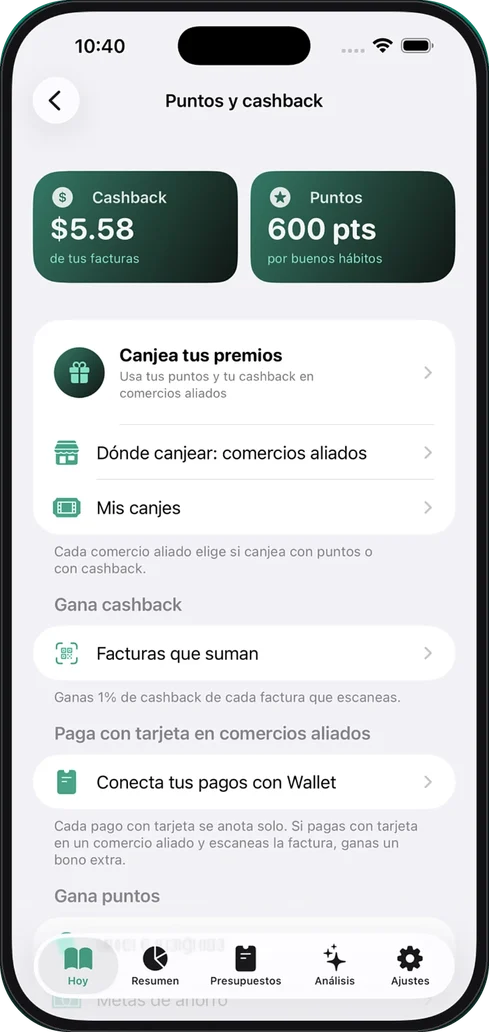
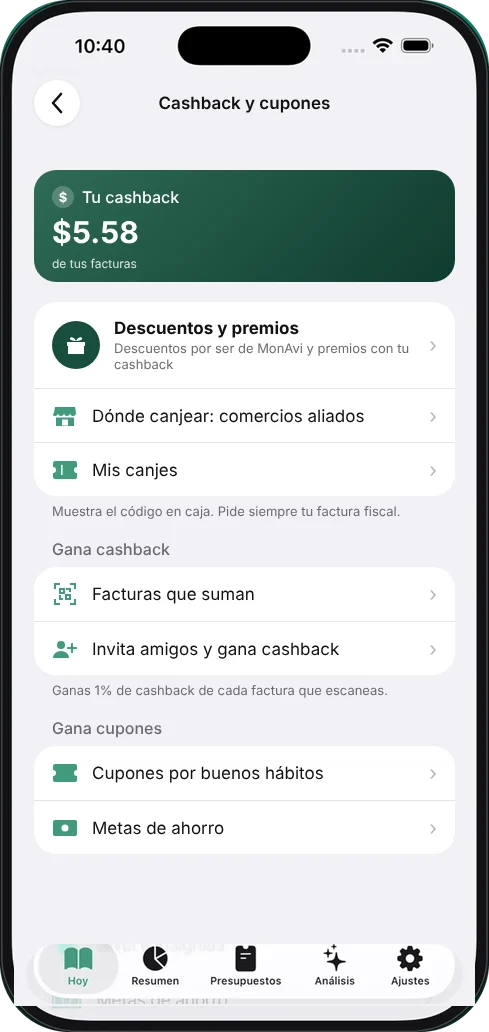
Landing de aliados sin puntos (premio con cashback o descuento por ser de MonAvi) y sin 'Gratis' en los descuentos
Claude-Session: https://claude.ai/code/session_01CAyuypny9sFhLWBW5RdW9C

diff --git a/admin/app/aliados/BusinessPreview.tsx b/admin/app/aliados/BusinessPreview.tsx
@@ -4,18 +4,26 @@ import { useMemo, useState } from "react";
 import { AnimatePresence, motion } from "framer-motion";
 
 // Simulador: el comercio escribe su nombre y su producto y ve, en vivo,
-// como aparece dentro de MonAvi (ficha en "Donde canjear" y el canje con
-// codigo que el cliente muestra en caja). Imita el diseno real de la app.
+// como aparece dentro de MonAvi (ficha en "Donde canjear" y el codigo que
+// el cliente muestra en caja). Imita el diseno real de la app.
+//
+// Dos formas de estar en MonAvi: un premio que el cliente canjea con su
+// cashback, o un descuento por ser de MonAvi (ej. 20%, 1 vez por semana).
 
-type Currency = "cashback" | "puntos";
+type Offer = "premio" | "descuento";
 
 const PRESETS = [
-  { emoji: "☕", category: "Cafetería", product: "Capuchino mediano", value: "3.50", currency: "cashback" as Currency },
-  { emoji: "🥐", category: "Panadería", product: "Croissant de mantequilla", value: "2.25", currency: "cashback" as Currency },
-  { emoji: "💈", category: "Barbería", product: "Perfilado de barba", value: "600", currency: "puntos" as Currency },
-  { emoji: "🍦", category: "Heladería", product: "Helado de una bola", value: "2.50", currency: "cashback" as Currency },
-  { emoji: "🏋", category: "Gimnasio", product: "Pase de un día", value: "800", currency: "puntos" as Currency },
+  { emoji: "☕", category: "Cafetería", product: "Capuchino mediano", value: "3.50", offer: "premio" as Offer },
+  { emoji: "🥐", category: "Panadería", product: "En toda la panadería", value: "15", offer: "descuento" as Offer },
+  { emoji: "💈", category: "Barbería", product: "En cortes de cabello", value: "20", offer: "descuento" as Offer },
+  { emoji: "🍦", category: "Heladería", product: "Helado de una bola", value: "2.50", offer: "premio" as Offer },
+  { emoji: "🏋", category: "Gimnasio", product: "En la mensualidad", value: "10", offer: "descuento" as Offer },
 ];
+
+const DEFAULTS: Record<Offer, { product: string; value: string }> = {
+  premio: { product: "Capuchino mediano", value: "3.50" },
+  descuento: { product: "En toda la tienda", value: "20" },
+};
 
 function initials(name: string): string {
   const words = name.trim().split(/\s+/).filter(Boolean);
@@ -62,16 +70,17 @@ export default function BusinessPreview() {
   const preset = PRESETS[presetIndex];
   const [product, setProduct] = useState(preset.product);
   const [value, setValue] = useState(preset.value);
-  const [currency, setCurrency] = useState<Currency>(preset.currency);
+  const [offer, setOffer] = useState<Offer>(preset.offer);
   const [screen, setScreen] = useState<"ficha" | "canje">("ficha");
 
   const shownName = name.trim() || "Tu negocio";
   const shownProduct = product.trim() || "Tu producto";
   const numeric = Number(value.replace(",", "."));
-  const priceLabel =
-    currency === "cashback"
-      ? `$${Number.isFinite(numeric) && numeric > 0 ? numeric.toFixed(2) : "0.00"}`
-      : `${Number.isFinite(numeric) && numeric > 0 ? Math.round(numeric).toLocaleString("es-PA") : "0"} pts`;
+  const isDiscount = offer === "descuento";
+  const percent = Number.isFinite(numeric) && numeric > 0 ? Math.min(100, Math.round(numeric)) : 0;
+  const priceLabel = `$${Number.isFinite(numeric) && numeric > 0 ? numeric.toFixed(2) : "0.00"}`;
+  const dealTitle = `${percent}% de descuento`;
+  const itemTitle = isDiscount ? dealTitle : shownProduct;
   const code = useMemo(() => makeCode(shownName + shownProduct), [shownName, shownProduct]);
 
   function pickPreset(index: number) {
@@ -79,7 +88,14 @@ export default function BusinessPreview() {
     setPresetIndex(index);
     setProduct(p.product);
     setValue(p.value);
-    setCurrency(p.currency);
+    setOffer(p.offer);
+  }
+
+  function pickOffer(next: Offer) {
+    if (next === offer) return;
+    setOffer(next);
+    setProduct(DEFAULTS[next].product);
+    setValue(DEFAULTS[next].value);
   }
 
   return (
@@ -113,24 +129,24 @@ export default function BusinessPreview() {
         </div>
 
         <label className="al-field">
-          <span>Producto que regalas</span>
+          <span>{isDiscount ? "En qué aplica" : "Producto que regalas"}</span>
           <input type="text" value={product} maxLength={40} onChange={(e) => setProduct(e.target.value)} />
         </label>
 
         <div className="al-row2">
           <div className="al-field">
-            <span>Se canjea con</span>
+            <span>Qué ofreces</span>
             <div className="al-seg">
-              <button type="button" className={currency === "cashback" ? "on" : ""} onClick={() => { setCurrency("cashback"); setValue("3.50"); }}>
-                Cashback
+              <button type="button" className={offer === "premio" ? "on" : ""} onClick={() => pickOffer("premio")}>
+                Premio
               </button>
-              <button type="button" className={currency === "puntos" ? "on" : ""} onClick={() => { setCurrency("puntos"); setValue("600"); }}>
-                Puntos
+              <button type="button" className={offer === "descuento" ? "on" : ""} onClick={() => pickOffer("descuento")}>
+                Descuento
               </button>
             </div>
           </div>
           <label className="al-field">
-            <span>{currency === "cashback" ? "Valor (US$)" : "Puntos"}</span>
+            <span>{isDiscount ? "Descuento (%)" : "Valor en cashback (US$)"}</span>
             <input type="text" inputMode="decimal" value={value} maxLength={8} onChange={(e) => setValue(e.target.value.replace(/[^0-9.,]/g, ""))} />
           </label>
         </div>
@@ -143,7 +159,12 @@ export default function BusinessPreview() {
             El canje en caja
           </button>
         </div>
-        <p className="al-note">Vista previa ilustrativa. Tu ficha real lleva tu logo y la foto de tu producto.</p>
+        <p className="al-note">
+          {isDiscount
+            ? "Descuento por ser de MonAvi: tú decides cada cuánto lo puede usar cada persona (por ejemplo, 1 vez por semana)."
+            : "Premio con cashback: el cliente lo canjea con el cashback que gana con sus facturas."}{" "}
+          Vista previa ilustrativa: tu ficha real lleva tu logo y la foto de tu producto.
+        </p>
       </div>
 
       <div className="al-phone" aria-live="polite">
@@ -159,9 +180,8 @@ export default function BusinessPreview() {
                 transition={{ duration: 0.28 }}
               >
                 <div className="al-app-title">Dónde canjear</div>
-                <div className="al-balances">
-                  <div><small>Cashback</small><b>$5.58</b></div>
-                  <div><small>Puntos</small><b>600 pts</b></div>
+                <div className="al-balances single">
+                  <div><small>Tu cashback</small><b>$5.58</b></div>
                 </div>
                 <motion.div className="al-mcard" layout>
                   <div className="al-mcard-head">
@@ -172,20 +192,22 @@ export default function BusinessPreview() {
                       <b>{shownName}</b>
                       <small>{preset.category}</small>
                       <small>📍 Panamá</small>
-                      <span className="al-tag">{currency === "cashback" ? "Canje con cashback" : "Canje con puntos"}</span>
+                      <span className="al-tag">{isDiscount ? "Descuento por ser de MonAvi" : "Canje con cashback"}</span>
                     </div>
                   </div>
-                  <p className="al-mcard-line">1 premio desde {priceLabel} · ya te alcanza 🎉</p>
+                  <p className="al-mcard-line">
+                    {isDiscount ? `${dealTitle} · 1 vez por semana` : `1 premio desde ${priceLabel} · ya te alcanza 🎉`}
+                  </p>
                   <div className="al-mcard-btns">
                     <span className="ghost">Cómo llegar</span>
-                    <span className="solid" onClick={() => setScreen("canje")}>Ver premios</span>
+                    <span className="solid" onClick={() => setScreen("canje")}>{isDiscount ? "Ver descuentos" : "Ver premios"}</span>
                   </div>
                 </motion.div>
                 <div className="al-reward">
                   <div className="al-reward-photo" aria-hidden="true">{preset.emoji}</div>
                   <div>
-                    <b>{shownProduct}</b>
-                    <span className="al-price">{priceLabel}</span>
+                    <b>{itemTitle}</b>
+                    {isDiscount ? <small className="al-dim">{shownProduct}</small> : <span className="al-price">{priceLabel}</span>}
                   </div>
                 </div>
               </motion.div>
@@ -198,13 +220,13 @@ export default function BusinessPreview() {
                 transition={{ duration: 0.28 }}
                 className="al-redeem"
               >
-                <div className="al-app-title">Tu canje</div>
+                <div className="al-app-title">{isDiscount ? "Tu descuento" : "Tu canje"}</div>
                 <div className="al-redeem-head">
                   <div className="al-reward-photo small" aria-hidden="true">{preset.emoji}</div>
                   <div>
                     <b>{shownName}</b>
-                    <small>{shownProduct}</small>
-                    <span className="al-price">{priceLabel}</span>
+                    <small>{itemTitle}</small>
+                    {isDiscount ? <small>{shownProduct}</small> : <span className="al-price">{priceLabel}</span>}
                   </div>
                 </div>
                 <div className="al-qr" aria-hidden="true">
@@ -214,8 +236,12 @@ export default function BusinessPreview() {
                 </div>
                 <small className="al-dim">Tu código</small>
                 <div className="al-code">{code}</div>
-                <span className="al-ready">Listo para usar</span>
-                <p className="al-dim">Muéstralo en caja. El comercio lo valida con su PIN.</p>
+                <span className="al-ready">{isDiscount ? "Vence en 14:59" : "Listo para usar"}</span>
+                <p className="al-dim">
+                  {isDiscount
+                    ? "Muéstralo en caja. El comercio lo aplica con su PIN y le recuerda pedir su factura fiscal."
+                    : "Muéstralo en caja. El comercio lo valida con su PIN."}
+                </p>
               </motion.div>
             )}
           </AnimatePresence>

diff --git a/admin/app/aliados/page.tsx b/admin/app/aliados/page.tsx
@@ -9,33 +9,35 @@ import Reveal from "./Reveal";
 export const metadata: Metadata = {
   title: "Comercios aliados — MonAvi",
   description:
-    "Lleva clientes nuevos a tu negocio con MonAvi: publica un producto canjeable y recibe a clientes que lo canjean en tu local con su cashback o sus puntos. Sin costo de afiliación ni integración.",
+    "Lleva clientes nuevos a tu negocio con MonAvi: ofrece un descuento por ser de MonAvi o un premio que se canjea con cashback, y recibe a clientes en tu local. Sin costo de afiliación ni integración.",
 };
 
 const STEPS = [
   { title: "Te registras", text: "Llenas el formulario en dos minutos. Te contactamos para conocer tu negocio y preparar tu ficha." },
-  { title: "Eliges tu premio", text: "Un café, un postre, un servicio. Tú decides qué ofreces, cuánto vale y si se canjea con cashback o con puntos." },
+  { title: "Eliges qué ofreces", text: "Un descuento por ser de MonAvi (10%, 20%…) que cada persona usa las veces que tú decidas, o un premio (un café, un postre, un servicio) que se canjea con cashback." },
   { title: "Te encuentran en la app", text: "Tu negocio aparece con tu logo, la foto del producto y un botón directo a Google Maps." },
   { title: "Validas en caja", text: "El cliente muestra su código. Lo validas desde cualquier celular con tu PIN y le entregas el producto." },
 ];
 
 const BENEFITS = [
-  { icon: "🚶", title: "Clientes que llegan decididos", text: "Quien canjea ya eligió visitarte: llega por su premio y muchas veces compra algo más o vuelve." },
+  { icon: "🚶", title: "Clientes que llegan decididos", text: "Quien usa tu descuento o canjea tu premio ya eligió visitarte, y muchas veces compra algo más o vuelve." },
   { icon: "📱", title: "Visibilidad en la app", text: "Tu ficha con logo, fotos y cómo llegar, frente a personas que cuidan su dinero." },
-  { icon: "🔔", title: "Avisos que traen gente", text: "Cuando a un usuario le alcanza para tu premio, MonAvi puede avisarle con una notificación." },
+  { icon: "🔔", title: "Avisos que traen gente", text: "Cuando entras a MonAvi avisamos a los usuarios con tu descuento, y cuando a alguien le alcanza para tu premio también le llega una notificación." },
+  { icon: "📊", title: "Mides los resultados", text: "Ves cuántas visitas te trajo MonAvi y el ticket promedio de esos clientes." },
   { icon: "🆓", title: "Cero costo", text: "Sin cuota de afiliación, sin mensualidad y sin comisión por venta." },
-  { icon: "🔒", title: "Canjes seguros", text: "Cada código es único, vence a los 7 días y no se puede usar dos veces. El PIN tiene límite de intentos." },
-  { icon: "🎛", title: "Tú tienes el control", text: "Cambia o pausa tus premios cuando quieras. Sin contratos largos." },
+  { icon: "🔒", title: "Canjes seguros", text: "Cada código es único y no se puede usar dos veces: el de un descuento vence a los 15 minutos y el de un premio a los 7 días. El PIN tiene límite de intentos." },
+  { icon: "🎛", title: "Tú tienes el control", text: "Cambia o pausa tus descuentos y premios cuando quieras, y pon un cupo máximo. Sin contratos largos." },
 ];
 
 const FAQ = [
   { q: "¿Cuánto cuesta ser aliado?", a: "Nada. No hay cuota de afiliación, mensualidad ni comisión." },
-  { q: "¿Quién paga el producto que se canjea?", a: "Tu negocio lo entrega sin costo para el cliente, como inversión para atraer y fidelizar clientes. MonAvi no reembolsa el producto." },
+  { q: "¿Qué es un descuento por ser de MonAvi?", a: "Un descuento que ofreces a quienes usan MonAvi, por ejemplo 20% en toda la tienda. Tú eliges cada cuánto lo puede usar cada persona (1 vez por semana, por mes…). Se desbloquea cuando la persona escanea su primera factura y verifica su correo." },
+  { q: "¿Quién paga el premio o el descuento?", a: "Tu negocio, como inversión para atraer y fidelizar clientes. MonAvi no reembolsa el producto ni el descuento." },
   { q: "¿Necesito instalar algo o un equipo especial?", a: "No. Solo un celular con navegador para abrir la página de canje y tu PIN." },
   { q: "¿Qué datos del cliente veo?", a: "Su nombre de pila con la inicial del apellido, los últimos 4 dígitos de su teléfono, el código y el producto. Nunca su correo, saldo ni movimientos." },
-  { q: "¿Qué pasa si el cliente no usa su código?", a: "Vence a los 7 días y el saldo se le devuelve automáticamente. Tú no pierdes nada." },
+  { q: "¿Qué pasa si el cliente no usa su código?", a: "Vence solo (a los 15 minutos si es un descuento, a los 7 días si es un premio, y el cashback se le devuelve). Tú no pierdes nada." },
   { q: "¿Puedo hablar con alguien antes de inscribirme?", a: "Claro. Escríbenos por WhatsApp al +507 6738-9720 o a hola@maday.app y te explicamos todo." },
-  { q: "¿Cómo ganan cashback y puntos los clientes?", a: "Cashback: 1% de sus facturas electrónicas de Panamá verificadas por la DGI. Puntos: por buenos hábitos, como anotar sus gastos, ahorrar y cumplir sus presupuestos." },
+  { q: "¿Cómo ganan cashback los clientes?", a: "Con el 1% de sus facturas electrónicas de Panamá verificadas por la DGI y al invitar a sus amigos. Por eso MonAvi les recuerda pedir siempre su factura fiscal." },
 ];
 
 const WHATSAPP_URL =
@@ -84,8 +86,8 @@ export default function AliadosPage() {
               Convierte el ahorro de la gente en <span>clientes para tu negocio</span>
             </h1>
             <p>
-              En MonAvi, las personas ordenan su dinero, ganan cashback con sus facturas y puntos por sus buenos hábitos.
-              Sé el lugar donde lo canjean.
+              En MonAvi, las personas ordenan su dinero y ganan cashback con sus facturas. Sé el lugar donde lo canjean
+              y donde encuentran sus descuentos.
             </p>
             <div className="al-hero-actions">
               <a href="#solicitud" className="al-btn">Quiero ser aliado</a>
@@ -113,7 +115,7 @@ export default function AliadosPage() {
         <Reveal>
           <span className="al-kicker">Pruébalo</span>
           <h2>Así se vería tu negocio en MonAvi</h2>
-          <p className="al-lead">Escribe el nombre de tu negocio y el premio que darías. Mira cómo lo verían tus futuros clientes.</p>
+          <p className="al-lead">Escribe el nombre de tu negocio y el descuento o premio que darías. Mira cómo lo verían tus futuros clientes.</p>
         </Reveal>
         <Reveal delay={0.1}>
           <BusinessPreview />
@@ -131,7 +133,7 @@ export default function AliadosPage() {
           {[
             { img: "hoy", title: "Anotan su día", text: "Gastos, ingresos y ahorro en segundos, hasta con su voz." },
             { img: "resumen", title: "Entienden su mes", text: "En qué se fue la plata, por categorías." },
-            { img: "cashback", title: "Ganan recompensas", text: "Cashback por sus facturas y puntos por buenos hábitos, para canjear en comercios como el tuyo." },
+            { img: "cashback", title: "Ganan recompensas", text: "Cashback por sus facturas y descuentos en comercios como el tuyo." },
           ].map((s, i) => (
             <Reveal key={s.img} delay={i * 0.12} className="al-screen">
               {/* eslint-disable-next-line @next/next/no-img-element */}

diff --git a/admin/components/RewardPreviewCard.tsx b/admin/components/RewardPreviewCard.tsx
@@ -18,7 +18,7 @@ type Props = {
   hasMaps?: boolean;
   paused?: boolean;
   pausedLabel?: string;
-  /// Descuento gratis por ser de MonAvi: en vez del costo dice "Gratis".
+  /// Descuento gratis por ser de MonAvi: en vez del costo dice "Por ser de MonAvi".
   isFree?: boolean;
 };
 
@@ -57,7 +57,7 @@ export default function RewardPreviewCard({
       <div className="reward-preview-body">
         <span className="reward-preview-product">{productName || "Nombre del producto"}</span>
         <span className="reward-preview-points">
-          {isFree ? "Gratis" : value && value > 0 ? formatRewardValue(value, currency) : currency === "puntos" ? "— pts" : "$—"}
+          {isFree ? "Por ser de MonAvi" : value && value > 0 ? formatRewardValue(value, currency) : currency === "puntos" ? "— pts" : "$—"}
         </span>
       </div>
       {description && <p className="reward-preview-description">{description}</p>}

diff --git a/MonAvi/Features/Rewards/RedemptionCodeView.swift b/MonAvi/Features/Rewards/RedemptionCodeView.swift
@@ -80,14 +80,14 @@ struct RedemptionCodeView: View {
                     .font(.subheadline)
                     .foregroundStyle(.secondary)
                     .lineLimit(2)
-                if redemption.isGift || redemption.isBenefit {
+                if redemption.isGift {
                     Text("Gratis")
                         .font(.system(.subheadline, design: MonAviBrand.fontDesign, weight: .bold))
                         .padding(.horizontal, 10)
                         .padding(.vertical, 5)
                         .background(MonAviBrand.primary.opacity(0.15), in: Capsule())
                         .foregroundStyle(MonAviBrand.primaryDark)
-                } else {
+                } else if !redemption.isBenefit {
                     RewardPointsPill(points: redemption.pointsCost, currency: redemption.displayCurrency)
                 }
             }

diff --git a/admin/app/globals.css b/admin/app/globals.css
@@ -2365,6 +2365,7 @@ input:focus-visible, select:focus-visible, textarea:focus-visible {
 .al-phone-screen { height: 100%; border-radius: 38px; background: #F2F2F7; overflow: hidden; padding: 64px 16px 16px; color: #111; }
 .al-app-title { text-align: center; font-weight: 700; font-size: 17px; margin-bottom: 14px; }
 .al-balances { display: grid; grid-template-columns: 1fr 1fr; gap: 8px; margin-bottom: 14px; }
+.al-balances.single { grid-template-columns: 1fr; }
 .al-balances div { background: linear-gradient(135deg, #1f3d36, #0E1614); color: #fff; border-radius: 16px; padding: 10px 12px; }
 .al-balances small { display: block; font-size: 11px; opacity: .8; }
 .al-balances b { font-size: 20px; }

diff --git a/MonAvi/Features/Rewards/RewardModels.swift b/MonAvi/Features/Rewards/RewardModels.swift
@@ -244,8 +244,12 @@ struct RewardRedemption: Codable, Identifiable, Hashable {
         return trimmed
     }
 
-    /// Lo que se muestra como costo: "Gratis" en regalos y descuentos.
-    var displayCostText: String { isGift || isBenefit ? "Gratis" : formattedCost }
+    /// Lo que se muestra como costo: "Gratis" en regalos y "Descuento" en
+    /// los descuentos de aliados (no se cobran del cashback).
+    var displayCostText: String {
+        if isBenefit { return "Descuento" }
+        return isGift ? "Gratis" : formattedCost
+    }
 
     /// Descuento o cupon (se "aplica" en caja en vez de "entregarse").
     var isDiscount: Bool { isBenefit || (item?.kind.isDiscount ?? false) }

diff --git a/admin/app/(protected)/merchants/page.tsx b/admin/app/(protected)/merchants/page.tsx
@@ -49,7 +49,7 @@ export default async function MerchantsPage() {
         <ol className="steps-hint">
           <li>Crea el comercio con su nombre, RUC, categoría, logo y enlace de Google Maps.</li>
           <li>
-            Se abre su ficha: ahí agregas sus <strong>descuentos gratis por ser de MonAvi</strong> (10%, 20%…) y sus{" "}
+            Se abre su ficha: ahí agregas sus <strong>descuentos por ser de MonAvi</strong> (10%, 20%…) y sus{" "}
             <strong>premios con cashback</strong> (por ejemplo, <em>Capuchino</em> por $3.50).
           </li>
           <li>Generas el <strong>PIN de canje</strong> y se lo mandas al comercio.</li>

diff --git a/admin/app/(protected)/merchants/[id]/page.tsx b/admin/app/(protected)/merchants/[id]/page.tsx
@@ -245,7 +245,7 @@ export default async function MerchantDetailPage({ params }: { params: Promise<{
                   </td>
                   <td>
                     {item.free_benefit
-                      ? `Gratis · ${benefitLimitLabel(item.per_user_limit, item.per_user_period)}`
+                      ? `Por ser de MonAvi · ${benefitLimitLabel(item.per_user_limit, item.per_user_period)}`
                       : formatRewardValue(item.points_cost, currency)}
                   </td>
                   <td>

diff --git a/MonAviTests/BenefitsTests.swift b/MonAviTests/BenefitsTests.swift
@@ -108,7 +108,7 @@ final class BenefitsTests: XCTestCase {
         }
         XCTAssertTrue(redemption.isBenefit)
         XCTAssertEqual(redemption.itemName, "20% de descuento")
-        XCTAssertEqual(redemption.displayCostText, "Gratis")
+        XCTAssertEqual(redemption.displayCostText, "Descuento")
         XCTAssertEqual(BenefitsMath.countdownText(until: redemption.expiresAt, now: now), "14:32")
         XCTAssertNil(BenefitsMath.countdownText(until: redemption.expiresAt, now: redemption.expiresAt))
     }

diff --git a/MonAvi/Features/Rewards/PartnerMerchantRow.swift b/MonAvi/Features/Rewards/PartnerMerchantRow.swift
@@ -120,7 +120,7 @@ struct PartnerMerchantRow: View {
     private var summaryText: String {
         var parts: [String] = []
         if let benefit = summary.benefits.first {
-            parts.append(summary.benefits.count == 1 ? "\(benefit.name) gratis" : "\(summary.benefits.count) descuentos gratis")
+            parts.append(summary.benefits.count == 1 ? benefit.name : "\(summary.benefits.count) descuentos")
         }
         let count = summary.items.count
         if count > 0 {

diff --git a/admin/app/(protected)/merchants/[id]/RewardItemForm.tsx b/admin/app/(protected)/merchants/[id]/RewardItemForm.tsx
@@ -109,7 +109,7 @@ export default function RewardItemForm({ action, merchantName, logoUrl, hasMaps,
             }}
           >
             <option value="premio">Premio: lo canjea con su cashback o puntos</option>
-            <option value="beneficio">Descuento gratis por ser de MonAvi</option>
+            <option value="beneficio">Descuento por ser de MonAvi</option>
           </select>
         </div>
         {isFree && (

diff --git a/MonAvi/Features/Rewards/BenefitCard.swift b/MonAvi/Features/Rewards/BenefitCard.swift
@@ -44,12 +44,6 @@ struct BenefitCard: View {
                 }
             }
             Spacer(minLength: 8)
-            Text("Gratis")
-                .font(.caption.weight(.bold))
-                .padding(.horizontal, 10)
-                .padding(.vertical, 5)
-                .background(MonAviBrand.primary.opacity(0.15), in: Capsule())
-                .foregroundStyle(MonAviBrand.primaryDark)
         }
     }
 
